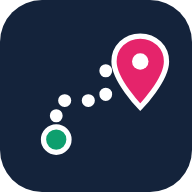
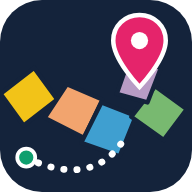
Ícone novo com as alas do Sawgrass, tela de abertura e ajustes para a tela de início
Claude-Session: https://claude.ai/code/session_01KJtG1FDw4y2rKQLPYmPJhT

Changed region(s): [[0.0, 0.0625, 0.9688, 0.9062], [0.0625, 0.75, 0.2188, 0.9062], [0.25, 0.8438, 0.2812, 0.9062]]

diff --git a/css/app.css b/css/app.css
@@ -479,3 +479,16 @@ button { cursor: pointer; }
 .sos-acts { display: flex; gap: 8px; }
 .sos-acts .btn { text-decoration: none; display: inline-grid; place-items: center; color: var(--ink); }
 .sos-acts .btn.primary { color: #fff; -webkit-text-fill-color: #fff; }
+
+/* ---------- tela de abertura ---------- */
+.splash { position: fixed; inset: 0; z-index: 50; display: flex; flex-direction: column; align-items: center; justify-content: center; gap: 6px;
+  background: #14233b; color: #fff; -webkit-text-fill-color: #fff; transition: opacity .45s ease; }
+.splash.out { opacity: 0; pointer-events: none; }
+.splash img { width: 112px; height: 112px; border-radius: 26px; box-shadow: 0 10px 30px rgba(0, 0, 0, .35); margin-bottom: 14px; }
+.splash b { font-size: 24px; letter-spacing: .01em; }
+.splash span { font-size: 15px; opacity: .75; letter-spacing: .08em; text-transform: uppercase; }
+.splash .dots { display: flex; gap: 8px; margin-top: 22px; }
+.splash .dots i { width: 8px; height: 8px; border-radius: 50%; background: #e5246b; animation: blink 1s infinite ease-in-out; }
+.splash .dots i:nth-child(2) { animation-delay: .15s; } .splash .dots i:nth-child(3) { animation-delay: .3s; }
+@keyframes blink { 0%, 100% { opacity: .25; transform: scale(.8); } 50% { opacity: 1; transform: scale(1); } }
+@media (prefers-reduced-motion: reduce) { .splash .dots i { animation: none; } .splash { transition: none; } }

diff --git a/index.html b/index.html
@@ -8,10 +8,20 @@
 <meta name="theme-color" content="#14233b">
 <link rel="manifest" href="manifest.webmanifest">
 <link rel="icon" href="icons/icon.svg" type="image/svg+xml">
-<link rel="apple-touch-icon" href="icons/icon-192.png">
+<link rel="apple-touch-icon" href="icons/icon-180.png">
+<meta name="apple-mobile-web-app-capable" content="yes">
+<meta name="mobile-web-app-capable" content="yes">
+<meta name="apple-mobile-web-app-status-bar-style" content="black-translucent">
+<meta name="apple-mobile-web-app-title" content="Sawgrass">
 <link rel="stylesheet" href="css/app.css">
 </head>
 <body class="app">
+<div class="splash" id="splash" aria-hidden="true">
+  <img src="icons/icon.svg" alt="" width="112" height="112">
+  <b>Rota no Shopping</b>
+  <span>Sawgrass Mills</span>
+  <i class="dots"><i></i><i></i><i></i></i>
+</div>
 <main id="map" aria-label="Mapa do piso"></main>
 <div id="markers" aria-hidden="true"></div>
 

diff --git a/js/app.js b/js/app.js
@@ -89,6 +89,7 @@ async function init() {
   renderMarked();
   renderStatus();
   setInterval(renderStatus, 30000);
+  const sp = $('#splash'); sp.classList.add('out'); setTimeout(() => sp.remove(), 500);
   if (!load('sawgrass.intro') && !state.shared) setTimeout(openIntro, 600);
   if (state.shared) { // enquadra tudo o que foi compartilhado
     const pts = [state.meet, state.shared.who, ...state.shared.marks.map((id) => mall.poiById.get(id))].filter(Boolean);
@@ -1709,6 +1710,7 @@ function fitCurrent() {
 
 init().catch((err) => {
   console.error(err);
+  $('#splash')?.remove();
   const s = $('#sheet');
   s.hidden = false;
   s.textContent = tx('Não foi possível carregar o mapa. Verifique a conexão e tente de novo.');

diff --git a/sw.js b/sw.js
@@ -1,8 +1,8 @@
 // Cache para uso offline dentro do shopping (sinal costuma ser ruim).
-const VERSION = 'v48';
+const VERSION = 'v49';
 const SHELL = [
   './', 'index.html', 'css/app.css', 'js/app.js', 'js/graph.js', 'js/mapview.js', 'js/i18n.js', 'js/shop.js',
-  'manifest.webmanifest', 'icons/icon.svg', 'icons/icon-192.png',
+  'manifest.webmanifest', 'icons/icon.svg', 'icons/icon-192.png', 'icons/icon-180.png',
   'data/mall.json', 'maps/l1.svg',
 ];
 

diff --git a/README.md b/README.md
@@ -143,6 +143,12 @@ O botão vermelho 🆘 (acima do GPS) abre: ligar 911, segurança do shopping
 que fazer com criança perdida. Os números ficam visíveis para copiar, caso a
 ligação direta não funcione.
 
+## Ícone e abertura
+
+Ícone com as alas coloridas do Sawgrass (cores da planta), a rota e o alfinete
+(`icons/icon.svg` e PNGs 180/192/512/maskable). Enquanto o mapa carrega,
+aparece a tela de abertura. Na tela de início o app se chama "Sawgrass".
+
 ## Tutorial
 
 Na primeira abertura aparecem 3 telas rápidas de "como usar" (busca e rota,
